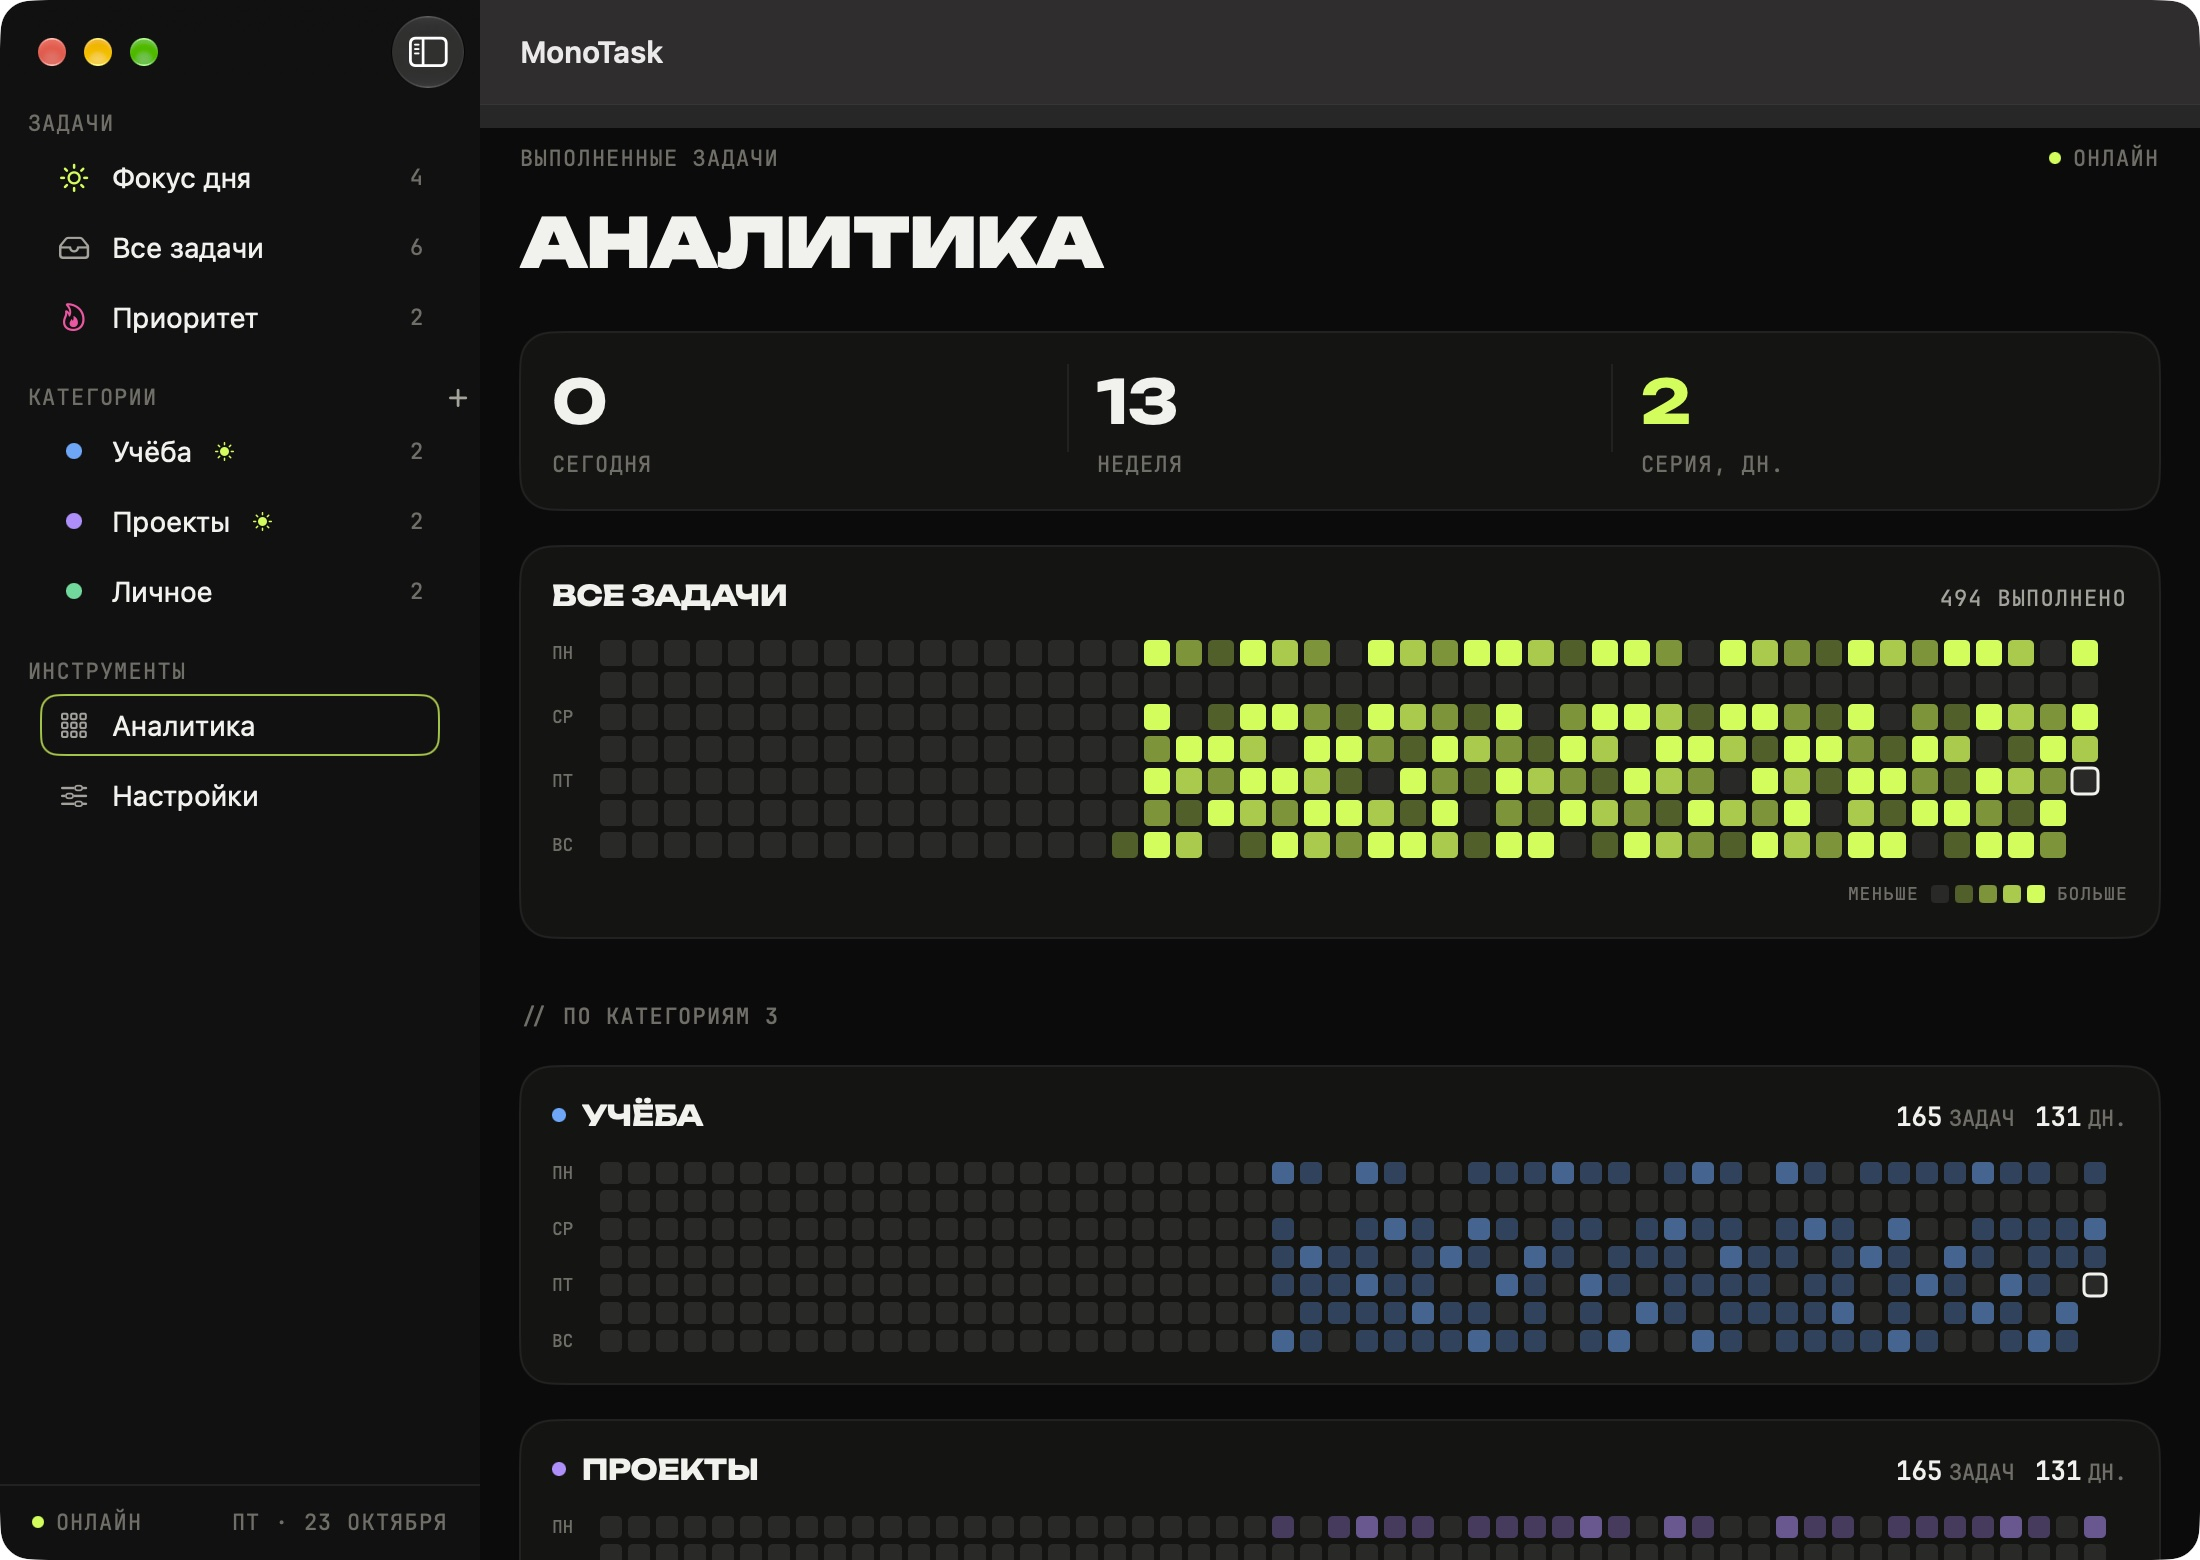
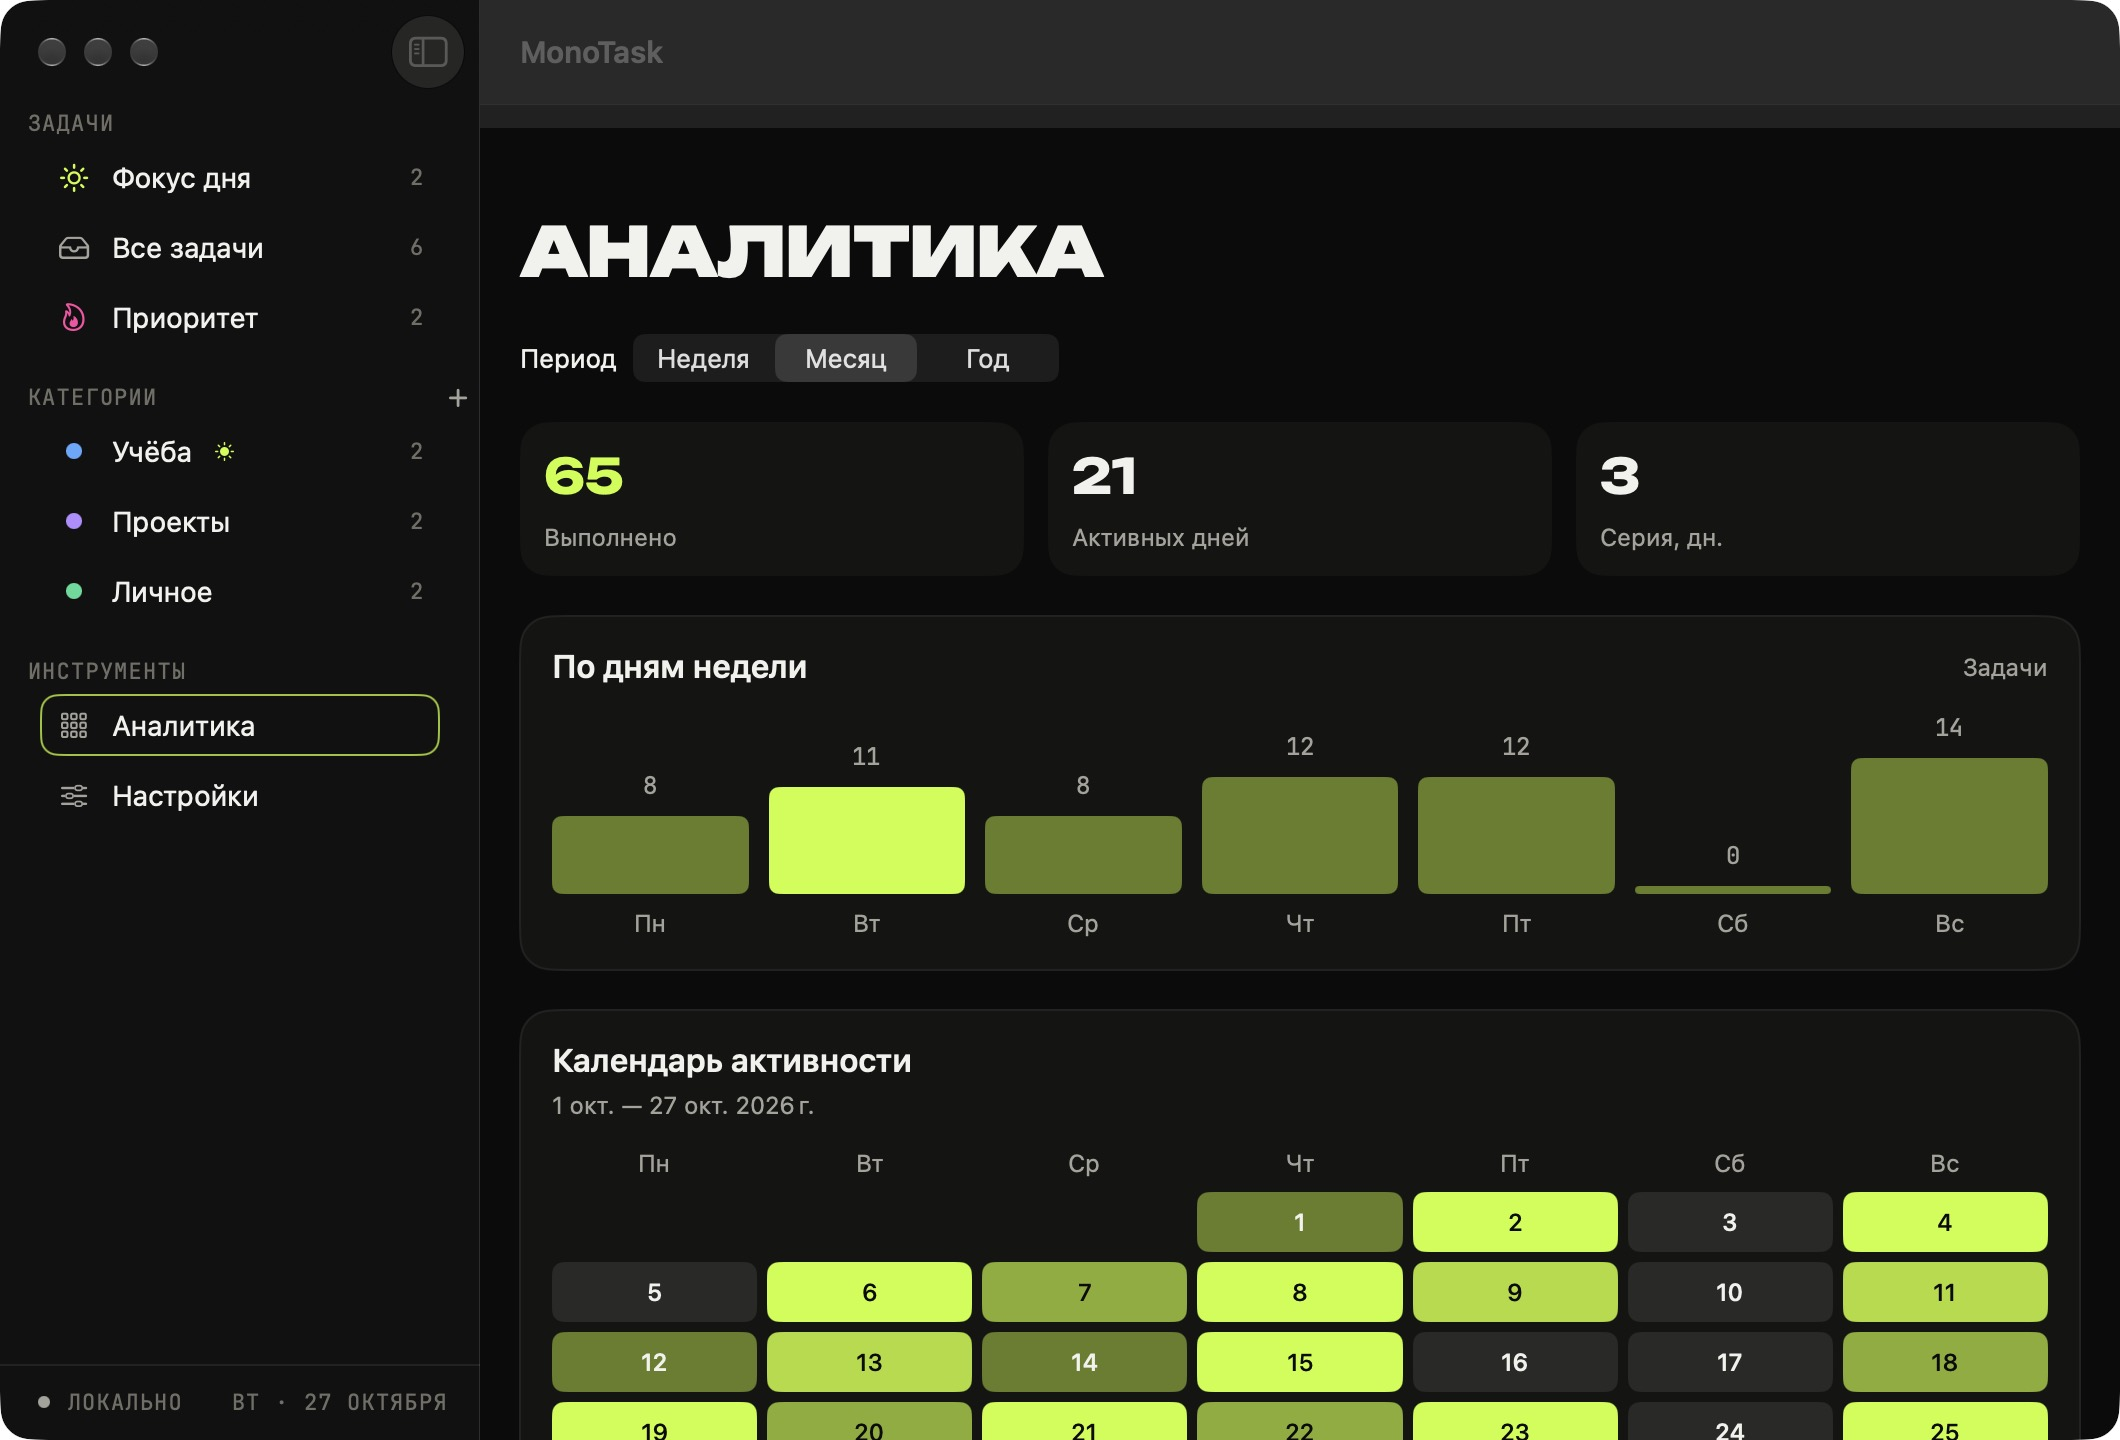
Refresh macOS screenshots for version 2.0

diff --git a/README.md b/README.md
@@ -34,7 +34,7 @@
 
 ### Mac
 
-**Задачи и фокус дня** — боковое меню, категории и быстрый ввод с клавиатуры.
+**Задачи и фокус дня, версия 2.0** — боковое меню, категории и быстрый ввод с клавиатуры.
 
 [![MonoTask на Mac — задачи и фокус дня](docs/screenshots/mac-today.jpg)](docs/screenshots/mac-today.jpg)
 
@@ -42,7 +42,11 @@
 
 [![MonoTask на Mac — аналитика](docs/screenshots/mac-activity.jpg)](docs/screenshots/mac-activity.jpg)
 
-Снимки Mac-версии также используют демонстрационные данные.
+**Настройки** — аккаунт, расписание, уведомления и вид списка.
+
+[![MonoTask 2.0 на Mac — настройки](docs/screenshots/mac-settings.jpg)](docs/screenshots/mac-settings.jpg)
+
+Все снимки Mac-версии сделаны в версии 2.0 с демонстрационными данными.
 
 ## Версия 2.0
 
